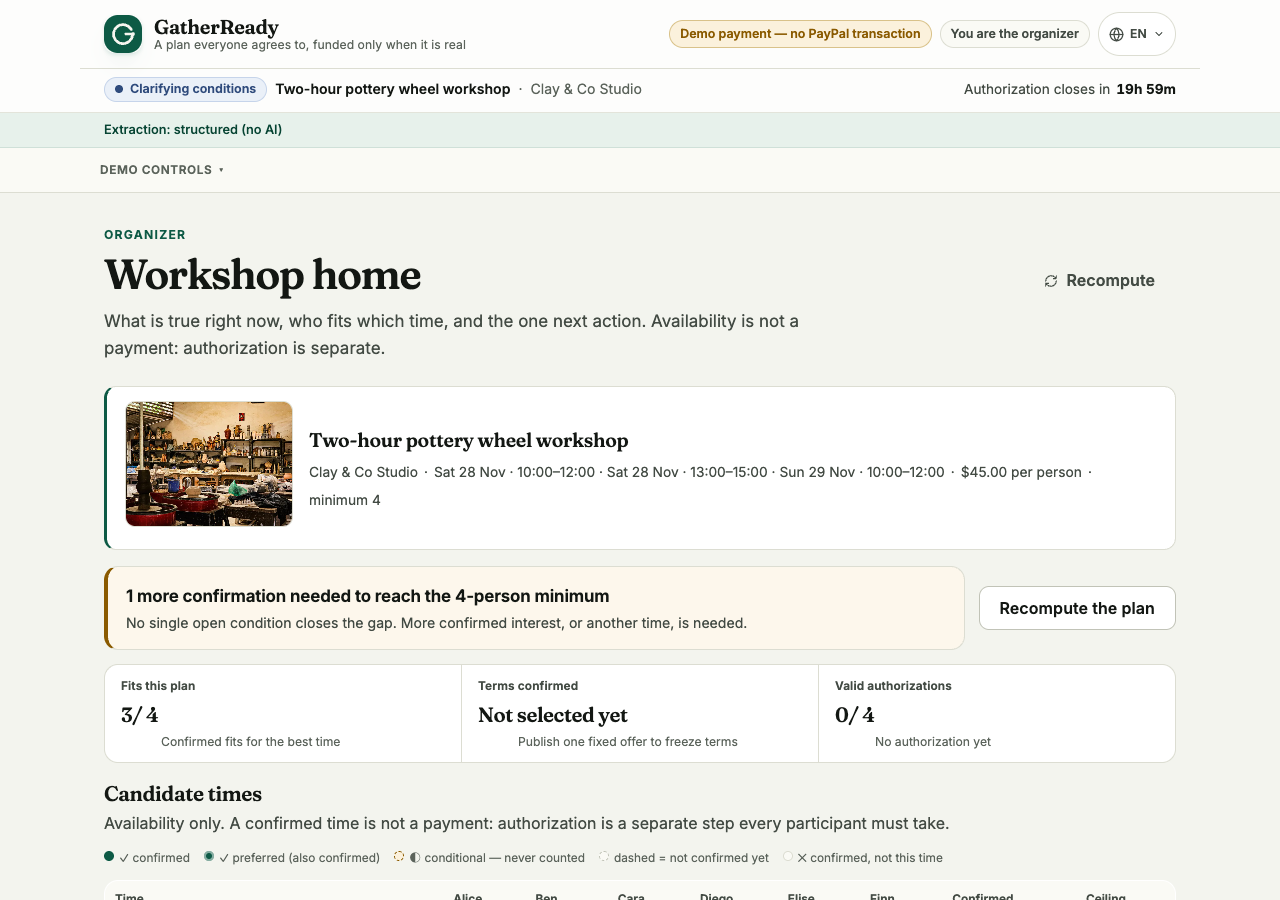
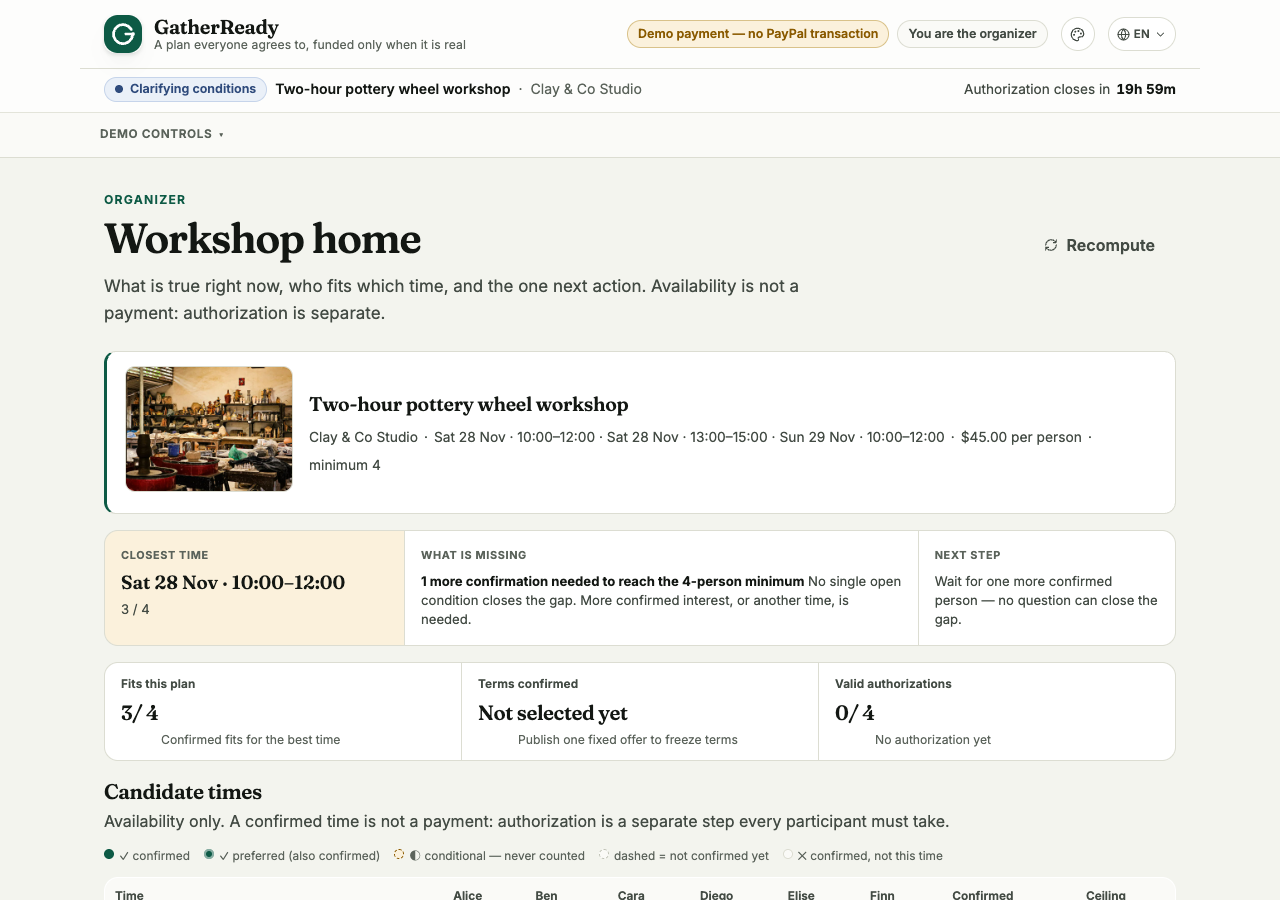
Fix invisible brand mark (accent-filled G with contrast-aware stroke) and switch all .btn variants to pill shape with smooth hover lift/press motion, keeping reduced-motion fallback

diff --git a/src/web/styles.css b/src/web/styles.css
@@ -6040,11 +6040,11 @@ a {
   border-top: 1px solid var(--border);
 }
 
-/* Custom accents keep white/dark text legible. */
+/* Custom accents keep button labels legible. The brand mark keeps its own
+   accent fill in .brand__mark below; it must never inherit the button colour. */
 .btn-primary,
 .btn-primary:hover,
-.btn-primary:focus-visible,
-.brand__mark {
+.btn-primary:focus-visible {
   color: var(--accent-contrast, #fff);
 }
 
@@ -6368,5 +6368,54 @@ a {
 
   .transform__flow {
     grid-template-columns: 1fr;
+  }
+}
+
+/* ==========================================================================
+   Pill buttons with one smooth motion language.
+   Visual radius and movement are shared by every .btn variant; reduced motion
+   removes the lift/scale while keeping colour feedback.
+   ========================================================================== */
+
+.btn {
+  border-radius: 999px;
+  transition:
+    transform 180ms var(--ease-out),
+    box-shadow 180ms var(--ease-out),
+    background-color 160ms ease,
+    border-color 160ms ease,
+    color 160ms ease;
+}
+
+@media (hover: hover) and (pointer: fine) {
+  .btn:hover:not(:disabled) {
+    transform: translateY(-2px);
+    box-shadow: 0 7px 18px -12px rgb(19 35 25 / 0.55);
+  }
+
+  .btn-primary:hover:not(:disabled) {
+    box-shadow:
+      0 2px 4px rgb(19 35 25 / 0.12),
+      0 12px 24px -14px rgb(19 35 25 / 0.55);
+  }
+}
+
+.btn:active:not(:disabled) {
+  transform: translateY(0) scale(0.97);
+  box-shadow: none;
+}
+
+/* Keep the pill radius for icon-only and compact button variants. */
+.btn--small,
+.btn--large {
+  border-radius: 999px;
+}
+
+@media (prefers-reduced-motion: reduce) {
+  .btn,
+  .btn:hover:not(:disabled),
+  .btn:active:not(:disabled) {
+    transform: none !important;
+    transition-duration: 0.001ms !important;
   }
 }

diff --git a/src/web/components/Logo.tsx b/src/web/components/Logo.tsx
@@ -21,12 +21,12 @@ export function BrandMark({ size = 36, title }: { size?: number; title?: string 
       <rect width="64" height="64" rx="14" fill="currentColor" />
       <path
         d="M46 24.5A16 16 0 1 0 48 32H36.5"
-        stroke="#F7F6F0"
+        style={{ stroke: 'var(--accent-contrast, #F7F6F0)' }}
         strokeWidth="4.6"
         fill="none"
         strokeLinecap="round"
       />
-      <circle cx="49" cy="32" r="3" fill="#F7F6F0" />
+      <circle cx="49" cy="32" r="3" style={{ fill: 'var(--accent-contrast, #F7F6F0)' }} />
     </svg>
   );
 }

diff --git a/docs/ui-review.md b/docs/ui-review.md
@@ -747,7 +747,7 @@ Motion checks: entrance inventory, hover response, reduced-motion behaviour, foc
       720,
       700
     ],
-    "heroVisible": "0.999093"
+    "heroVisible": "0.999094"
   },
   "hover": {
     "before": {
@@ -755,8 +755,8 @@ Motion checks: entrance inventory, hover response, reduced-motion behaviour, foc
       "boxShadow": "rgba(19, 23, 19, 0.12) 0px 2px 4px 0px, rgba(19, 23, 19, 0.35) 0px 14px 28px -14px"
     },
     "after": {
-      "transform": "matrix(1, 0, 0, 1, 0, -1)",
-      "boxShadow": "rgba(19, 23, 19, 0.12) 0px 2px 4px 0px, rgba(19, 23, 19, 0.35) 0px 14px 28px -14px"
+      "transform": "matrix(1, 0, 0, 1, 0, -2)",
+      "boxShadow": "rgba(19, 35, 25, 0.12) 0px 2px 4px 0px, rgba(19, 35, 25, 0.55) 0px 12px 24px -14px"
     }
   },
   "reducedMotion": {
